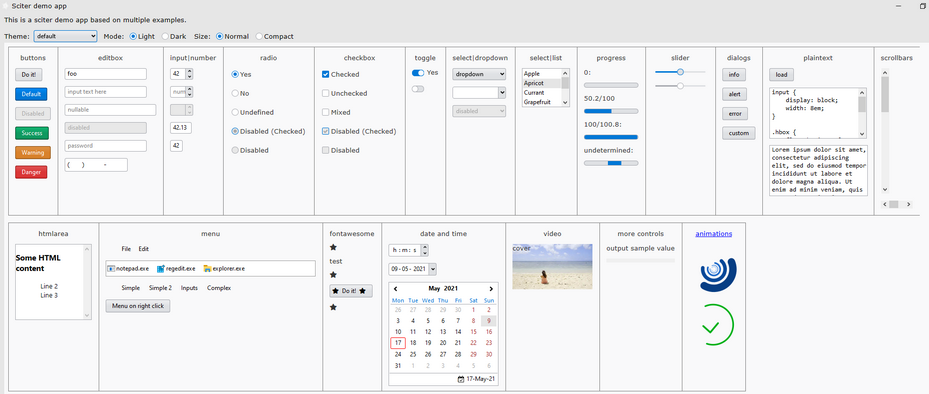
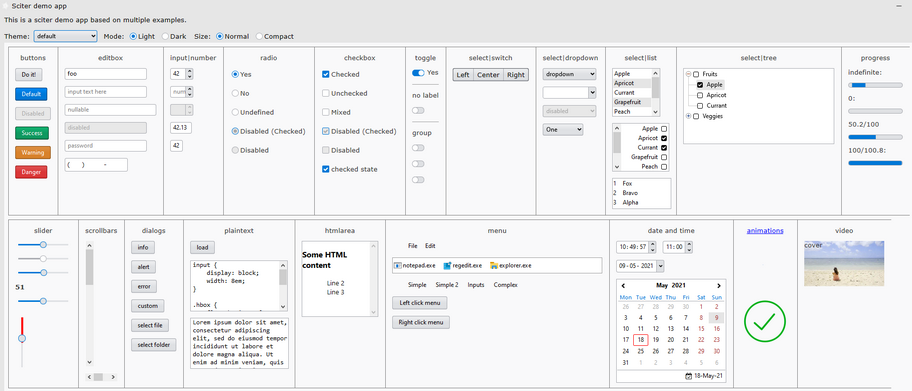
updated: screenshot cleanup: misc.

diff --git a/elements.html b/elements.html
@@ -72,36 +72,40 @@ select[type="tree"] {
     width: max-content;
 }
 
-plaintext {
-    width: *;
-    height: 100dip;
+// temporary fix for vslider
+input[type=vslider] {
+    background-image: url(stock:block);
+    background-size: 100% length(slider-position);
+    fill: red;
 }
 
 @import url("css/std-menu.css");
 @import url("css/menu-bar.css");
 
 menu.bar {
-    width: max-content;
+    width: 280dip;
 }
 
 button.context-menu {
     context-menu: selector(menu#context);
 }
 
+plaintext {
+    width: *;
+    height: 100dip;
+}
+
 plaintext#lorem {
     width: 100%;
+}
+
+htmlarea {
+    width: 100dip;
 }
 
 video {
     width: 160dip;
     height: 90dip;
-}
-
-// temporary fix for vslider
-input[type=vslider] {
-    background-image: url(stock:block);
-    background-size: 100% length(slider-position);
-    fill: red;
 }
 
 </style>
@@ -547,9 +551,9 @@ Lorem ipsum dolor sit amet, consectetur adipiscing elit, sed do eiusmod tempor i
     <div .hbox>
         <p>htmlarea</p>
         <htmlarea>
-           <h3>Some HTML content</h3>
-           <p>Line 2</p>
-           <p>Line 3</p>
+           <p>paragraph</p>
+           <b>bold</b>
+           <i>italic</i>
         </htmlarea>
     </div>
 
@@ -564,7 +568,7 @@ Lorem ipsum dolor sit amet, consectetur adipiscing elit, sed do eiusmod tempor i
         <p>video</p>
         <!-- taken from https://filesamples.com/formats/wmv -->
         <!-- sizing - string, either: "cover" or "contain" (default). -->
-        <video src="videos/sample.wmv" sizing="cover">cover</video>
+        <video src="videos/sample.wmv" sizing="cover" autoplay loop>cover</video>
     </div>
 
     <div .hbox>
